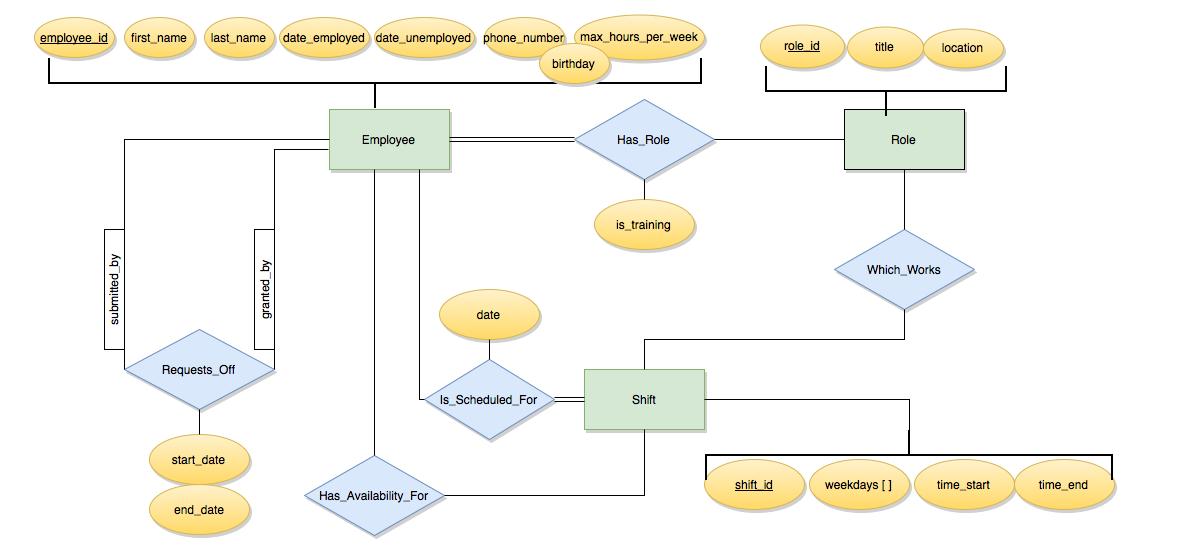
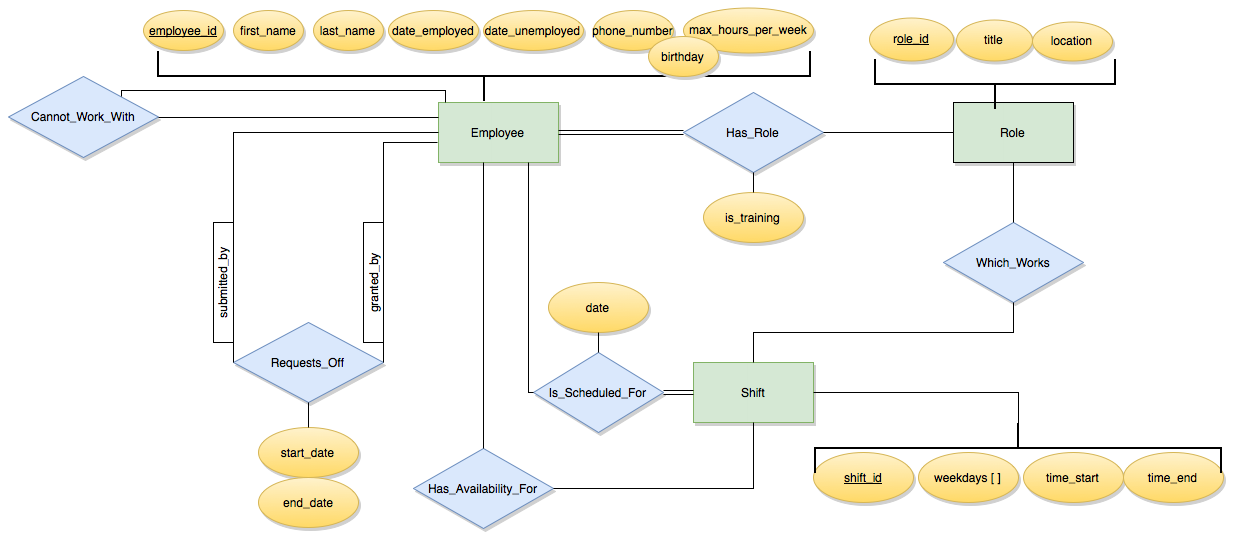
add relationship to restrict employees who do not work well together

diff --git a/documentation/database/reports/phaseI.md b/documentation/database/reports/phaseI.md
@@ -101,6 +101,12 @@ Itemized descriptions of Entity and Relationship Sets
     Employee:Shift m:n - many employees may be available for many shifts
     participation constraint - at least one employee must be available for each shift
 
+    (can two columns have the same name?)
+    Relationship Cannot_Work_With(
+        employeeID integer [foreign key],
+        employeeID integer [foreign key])
+    Employee:Employee 1:1 - some employees cannot work well with others
+
 1.5 User Groups are defined by Employee Roles
 In descending order of privelage are: managers (branch manager and store owner),
 shift supervisors, and all other employees (cashiers, janitors, food prep...)
